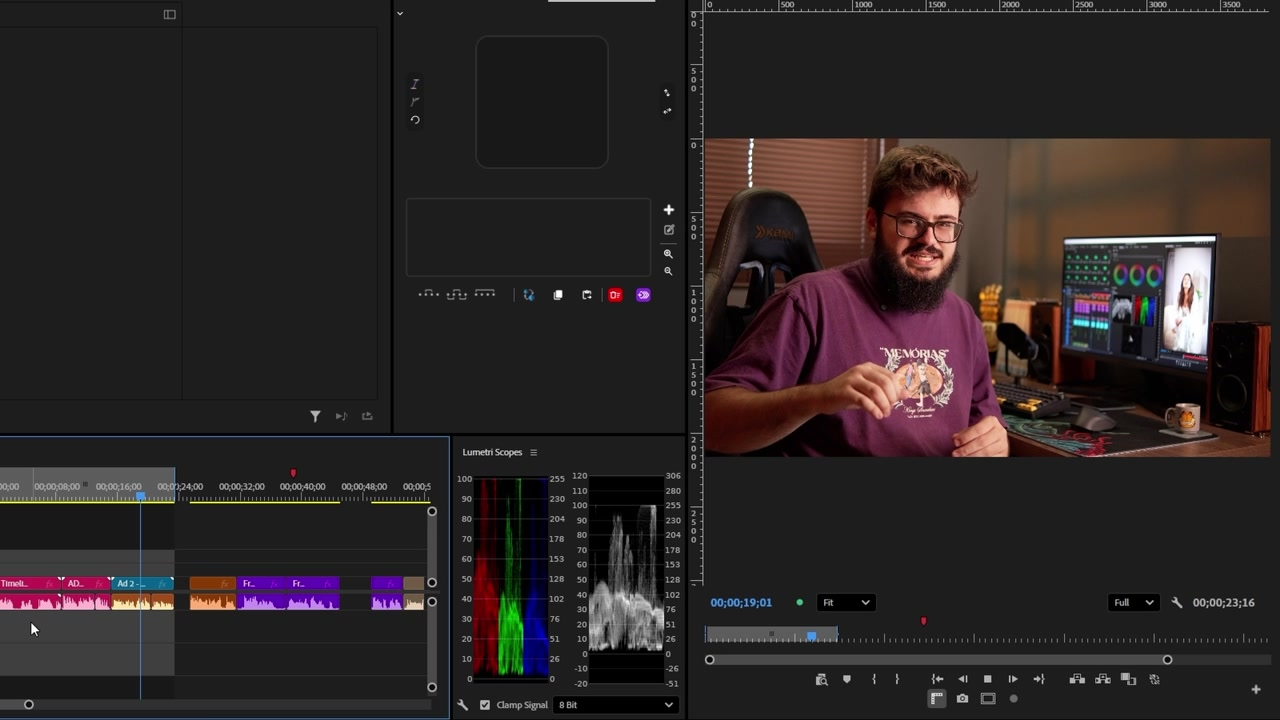
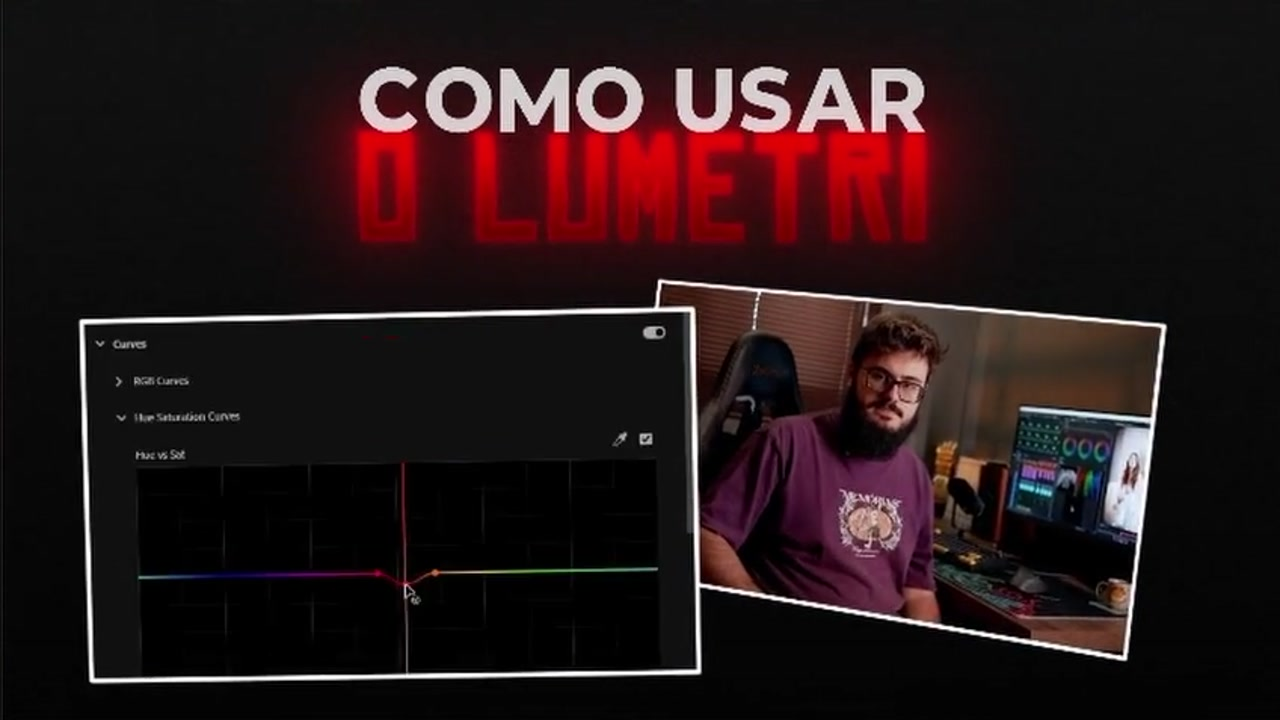
Show four featured films in native proportions and refine portrait

diff --git a/app/page.tsx b/app/page.tsx
@@ -58,13 +58,13 @@ export default function PortfolioPage() {
         </section>
 
         <section className="section page-width" id="work" aria-labelledby="work-heading">
-          <div className="section-heading"><div><p className="eyebrow">01 / Em destaque</p><h2 id="work-heading">Seu próximo vídeo<br /><em>começa com uma ideia.</em></h2></div><p>Dois dos meus favoritos. Assista e conheça o que podemos criar juntos.</p></div>
-          <div className="featured-list">{featured.map((project, index) => <article className={`featured ${project.format === "portrait" ? "featured-portrait" : ""}`} key={project.id}><button type="button" className="featured-media project-button" onClick={() => setSelected(project)} aria-label={`Assistir ${project.title}`}><ProjectImage project={project} priority={index === 0} /><span className="play-icon"><Play fill="currentColor" size={22} aria-hidden="true" /></span><span className="cover-copy"><small>{project.coverLabel}</small><strong>{project.coverTitle}</strong></span></button><div className="featured-copy"><span className="eyebrow">FILME {String(index + 1).padStart(2, "0")} / {project.category}</span><h3>{project.title}</h3><p>{project.subtitle}</p><button className="text-button" type="button" onClick={() => setSelected(project)}>Assistir projeto <ArrowUpRight size={18} aria-hidden="true" /></button></div></article>)}</div>
+          <div className="section-heading"><div><p className="eyebrow">01 / Em destaque</p><h2 id="work-heading">Seu próximo vídeo<br /><em>começa com uma ideia.</em></h2></div><p>Quatro projetos que mostram meu olhar. Assista e conheça o que podemos criar juntos.</p></div>
+          <div className="featured-list">{featured.map((project, index) => <article className={`featured ${project.format ? "featured-portrait" : ""}`} key={project.id}><button type="button" className={"featured-media project-button " + (project.format === "vertical" ? "media-vertical" : "")} onClick={() => setSelected(project)} aria-label={`Assistir ${project.title}`}><ProjectImage project={project} priority={index === 0} /><span className="play-icon"><Play fill="currentColor" size={22} aria-hidden="true" /></span><span className="cover-copy"><small>{project.coverLabel}</small></span></button><div className="featured-copy"><span className="eyebrow">FILME {String(index + 1).padStart(2, "0")} / {project.category}</span><h3>{project.title}</h3><p>{project.subtitle}</p><button className="text-button" type="button" onClick={() => setSelected(project)}>Assistir projeto <ArrowUpRight size={18} aria-hidden="true" /></button></div></article>)}</div>
         </section>
 
-        <section className="section other-section page-width" id="projects" aria-labelledby="projects-heading"><div className="section-heading"><div><p className="eyebrow">02 / Escolha seu estilo</p><h2 id="projects-heading">Mais trabalhos<span className="brand-dot">.</span></h2></div><p>Marcas, histórias reais e ideias que ganham movimento.</p></div><div className="project-filters" aria-label="Filtrar trabalhos">{["Todos", "Edição", "Motion", "Casamentos", "Gaming"].map(item => <button type="button" key={item} aria-pressed={filter === item} onClick={() => { setFilter(item); setExpanded(false); }}>{item}</button>)}</div><div className="project-grid">{visible.map((project) => <button type="button" className="project-tile project-button" key={project.id} onClick={() => setSelected(project)} aria-label={`Assistir ${project.title}`}><span className={`tile-media ${project.format === "vertical" ? "tile-vertical" : ""}`}><ProjectImage project={project} /><span className="cover-copy"><small>{project.coverLabel}</small><strong>{project.coverTitle}</strong></span><span className="tile-arrow"><ArrowUpRight size={22} aria-hidden="true" /></span></span><span className="tile-info"><span>{project.category}</span><strong>{project.title}</strong></span></button>)}</div>{filtered.length > 6 && <button className="button button-outline show-more" type="button" onClick={() => setExpanded(!expanded)}>{expanded ? "Mostrar menos" : "Ver todos os trabalhos"}</button>}</section>
+        <section className="section other-section page-width" id="projects" aria-labelledby="projects-heading"><div className="section-heading"><div><p className="eyebrow">02 / Escolha seu estilo</p><h2 id="projects-heading">Mais trabalhos<span className="brand-dot">.</span></h2></div><p>Marcas, histórias reais e ideias que ganham movimento.</p></div><div className="project-filters" aria-label="Filtrar trabalhos">{["Todos", "Edição", "Motion", "Casamentos", "Gaming"].map(item => <button type="button" key={item} aria-pressed={filter === item} onClick={() => { setFilter(item); setExpanded(false); }}>{item}</button>)}</div><div className="project-grid">{visible.map((project) => <button type="button" className="project-tile project-button" key={project.id} onClick={() => setSelected(project)} aria-label={`Assistir ${project.title}`}><span className={`tile-media ${project.format === "vertical" ? "tile-vertical" : ""}`}><ProjectImage project={project} /><span className="cover-copy"><small>{project.coverLabel}</small></span><span className="tile-arrow"><ArrowUpRight size={22} aria-hidden="true" /></span></span><span className="tile-info"><span>{project.category}</span><strong>{project.title}</strong></span></button>)}</div>{filtered.length > 6 && <button className="button button-outline show-more" type="button" onClick={() => setExpanded(!expanded)}>{expanded ? "Mostrar menos" : "Ver todos os trabalhos"}</button>}</section>
 
-        <section className="about-section" id="about" aria-labelledby="about-heading"><div className="about-inner page-width"><div className="portrait"><Image src="/about/andre-cafe-v2.jpg" alt="André, motion designer" fill sizes="(max-width: 600px) 100vw, 40vw" /></div><div className="about-copy"><p className="eyebrow">03 / Por trás da imagem</p><h2 id="about-heading">Prazer, André.<br /><em>Arte é meu ponto de partida.</em></h2><p>Animes, séries e cinema sempre fizeram parte da minha vida. Gosto de um bom drama, de uma cena de ação e daqueles detalhes que fazem a gente sentir alguma coisa.</p><p>É desse lugar que vem meu olhar: combinar imagem, música e movimento para encontrar a personalidade de cada vídeo. Quero conhecer a sua ideia e dar forma a ela.</p><a className="text-button" href="#contact">Vamos criar algo juntos <ArrowUpRight size={18} aria-hidden="true" /></a></div></div></section>
+        <section className="about-section" id="about" aria-labelledby="about-heading"><div className="about-inner page-width"><div className="portrait"><Image src="/about/andre-portrait-graded.jpg" alt="André, motion designer" fill sizes="(max-width: 600px) 100vw, 40vw" /></div><div className="about-copy"><p className="eyebrow">03 / Por trás da imagem</p><h2 id="about-heading">Prazer, André.<br /><em>Arte é meu ponto de partida.</em></h2><p>Animes, séries e cinema sempre fizeram parte da minha vida. Gosto de um bom drama, de uma cena de ação e daqueles detalhes que fazem a gente sentir alguma coisa.</p><p>É desse lugar que vem meu olhar: combinar imagem, música e movimento para encontrar a personalidade de cada vídeo. Quero conhecer a sua ideia e dar forma a ela.</p><a className="text-button" href="#contact">Vamos criar algo juntos <ArrowUpRight size={18} aria-hidden="true" /></a></div></div></section>
 
         <section className="section process-section page-width" id="services" aria-labelledby="services-heading"><div className="section-heading"><div><p className="eyebrow">04 / O que faço</p><h2 id="services-heading">Da ideia à imagem<span className="brand-dot">.</span></h2></div><p>Uma direção visual clara para comunicar e emocionar.</p></div><div className="process-grid"><article><span>01 /</span><h3>Edição de vídeo</h3><p>Narrativa, ritmo e acabamento para vídeos que sustentam a atenção.</p></article><article><span>02 /</span><h3>Motion design</h3><p>Tipografia, animação e identidades que ganham vida na tela.</p></article><article><span>03 /</span><h3>Direção visual</h3><p>Escolhas de imagem e movimento que dão personalidade a cada projeto.</p></article></div></section>
 
@@ -77,3 +77,4 @@ export default function PortfolioPage() {
     </div>
   );
 }
+

diff --git a/app/projects.ts b/app/projects.ts
@@ -12,12 +12,12 @@ export type Project = {
   note?: string;
 };
 
-export const featured: Project[] = [
+const primary: Project[] = [
   { id: "jose-otavio", title: "Sunvit — uma nova fase", category: "Edição", subtitle: "José Otávio · Filmmaker e publicitário", description: "José Otávio apresenta a Sunvit em um vídeo que aproxima a marca de quem está assistindo. Minha edição combina sua fala com títulos em movimento e um ritmo leve para deixar a mensagem clara, do começo ao fim.", coverTitle: "Uma nova fase.", coverLabel: "SUNVIT / JOSÉ OTÁVIO", video: "/videos-web/jose-otavio.mp4", poster: "/thumbnails/jose-otavio.jpg" },
   { id: "adapta", title: "Adapta — Doping de trabalho", category: "Edição", subtitle: "Inteligência artificial, explicada de outro jeito", description: "Assim como cada comprimido tem uma função, a IA também muda de papel conforme o que você precisa fazer. Uma edição que usa essa comparação, exemplos visuais e motion para tornar a ideia fácil de entender — e interessante de assistir.", coverTitle: "IA com propósito.", coverLabel: "ADAPTA / DOPING DE TRABALHO", video: "/videos-web/adapta.mp4", poster: "/thumbnails/adapta.jpg", format: "portrait" },
 ];
 
-export const moreProjects: Project[] = [
+const archive: Project[] = [
   { id: "sao-paulo", title: "São Paulo, em outro ritmo", category: "Edição", subtitle: "David · Filme urbano", description: "Um passeio por São Paulo, entre pontos da cidade e pequenos momentos do caminho. Uma edição de atmosfera urbana, com cortes e música que dão outro ritmo à viagem.", coverTitle: "São Paulo.", coverLabel: "UM OUTRO RITMO", video: "/videos-web/sao-paulo.mp4", poster: "/thumbnails/sao-paulo.jpg", format: "vertical" },
   { id: "edilane-marcos", title: "Edilane & Marcos", category: "Casamentos", subtitle: "Os detalhes antes do sim", description: "Sorrisos, preparativos e a expectativa de um dia importante. Um teaser de casamento que encontra emoção nos pequenos gestos e reúne esses momentos em uma lembrança para rever.", coverTitle: "Antes do sim.", coverLabel: "EDILANE & MARCOS", video: "/videos-web/edilane-marcos.mp4", poster: "/thumbnails/edilane-marcos.jpg" },
   { id: "lupulo", title: "Um dia para guardar", category: "Casamentos", subtitle: "Lúpulo · Teaser de casamento", description: "Da preparação à celebração, um teaser feito de encontros, abraços e emoção. A edição acompanha o clima de cada momento para contar esse dia com delicadeza.", coverTitle: "Para guardar.", coverLabel: "LÚPULO / WEDDING FILM", video: "/videos-web/lupulo.mp4", poster: "/thumbnails/lupulo.jpg" },
@@ -36,3 +36,6 @@ export function projectContact(project?: Project) {
   const message = project ? "Olá, André! Vi o projeto “" + project.title + "” no seu portfólio e queria conversar sobre um vídeo." : "Olá, André! Vi seu portfólio e queria conversar sobre um projeto.";
   return whatsapp + "?text=" + encodeURIComponent(message);
 }
+
+export const featured: Project[] = [...primary, ...["color-motion", "sao-paulo"].map(id => archive.find(p => p.id === id)!)];
+export const moreProjects = archive.filter(p => !["color-motion", "sao-paulo"].includes(p.id));

diff --git a/app/globals.css b/app/globals.css
@@ -145,6 +145,15 @@ button:focus-visible, a:focus-visible { outline: 2px solid var(--gold); outline-
 
 .cover-copy { position: absolute; inset: auto 0 0; padding: 52px 24px 24px; display: flex; flex-direction: column; gap: 8px; background: linear-gradient(transparent, rgba(0,0,0,.83)); color: white; pointer-events: none; }
 .cover-copy small { font-size: 9px; letter-spacing: .17em; }
+.featured-portrait .featured-media.media-vertical { aspect-ratio: 9/16; max-width: 380px; }
+.project-grid { display: block; columns: 3; column-gap: 20px; }
+.project-tile { break-inside: avoid; margin-bottom: 22px; }
+.tile-vertical { aspect-ratio: 9/16; }
+.tile-vertical img { object-position: center; }
+.cover-copy { padding-top: 38px; }
+.project-modal video.video-portrait { width: auto; max-width: 100%; height: min(52vh, 520px); margin-inline: auto; }
+@media (max-width: 900px) { .project-grid { columns: 2; } }
+@media (max-width: 600px) { .project-grid { columns: 1; } .featured-portrait .featured-media.media-vertical { max-width: 100%; } }
 .cover-copy strong { font-size: clamp(23px, 2.3vw, 36px); font-weight: 500; letter-spacing: -.045em; line-height: 1.05; }
 .featured-media .cover-copy { padding: 70px 30px 28px; }
 .featured-media .cover-copy strong { font-size: clamp(32px, 4vw, 56px); }
@@ -157,7 +166,7 @@ button:focus-visible, a:focus-visible { outline: 2px solid var(--gold); outline-
 .social-links a { color: #ffffff9c; font-size: 13px; text-decoration: none; }
 .social-links a:hover { color: var(--gold); }
 .project-modal { max-height: calc(100dvh - 48px); overflow-y: auto; width: min(100%, 1000px); }
-.project-modal video, .project-modal video.video-portrait { width: 100%; height: min(44vh, 460px); max-height: none; aspect-ratio: auto; object-fit: contain; }
+.project-modal video { width: 100%; height: min(44vh, 460px); max-height: none; aspect-ratio: auto; object-fit: contain; }
 .modal-copy { padding: 24px 8px 8px; }
 .modal-copy h2 { font-size: clamp(26px, 4vw, 40px); line-height: 1.1; letter-spacing: -.045em; margin: 12px 0; font-weight: 500; }
 .modal-copy p { max-width: 720px; font-size: 14px; line-height: 1.65; color: #ffffffa6; }
@@ -171,3 +180,5 @@ button:focus-visible, a:focus-visible { outline: 2px solid var(--gold); outline-
  .cover-copy { padding: 45px 18px 20px; }
  .hero h1 { font-size: clamp(44px, 11.7vw, 68px); }
 }
+
+.project-modal video.video-portrait { width: auto; max-width: 100%; height: min(52vh, 520px); margin-inline: auto; }

diff --git a/NEXT_STEPS.md b/NEXT_STEPS.md
@@ -3,4 +3,4 @@
 - Acrescentar uma seção dedicada a color grading quando André tiver os exemplos de antes/depois.
 - Procurar a exportação final do anúncio de color grading. Por enquanto, o catálogo identifica claramente a gravação de tela como prévia.
 - Retrato do café criado com IA usando a selfie como referência; revisar semelhança com André.
-- Organização do servidor Discord Flash Point: acesso web pendente. Proposta: Entrada (boas-vindas, links), Estúdio (briefings, projetos, referências, sala de edição), Comunidade (geral, cinema-anime, clips), Gaming (partiu-jogar, lobby, squad). Preservar canais e conversas existentes.
+- Servidor Flash Point organizado com Estúdio, Comunidade e Gaming, canais de projetos/feedback e referências, cinema/anime e partidas; sala de edição e lobby de voz. Perfil atualizado com descrição e interesses. Canais originais preservados.
